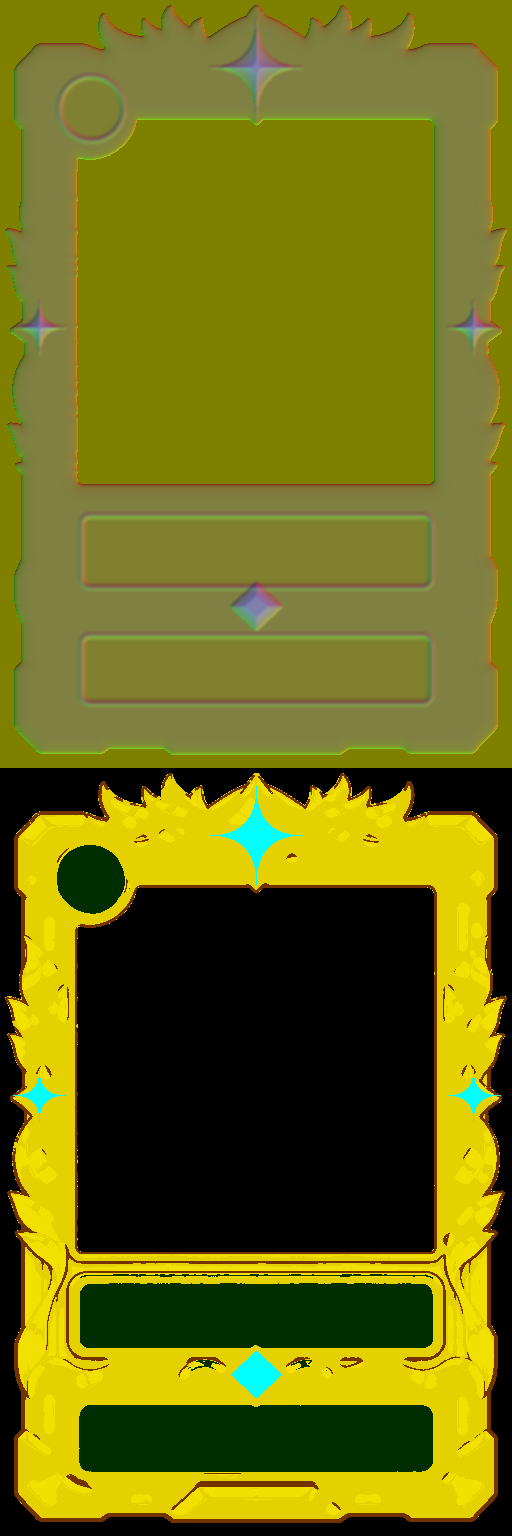
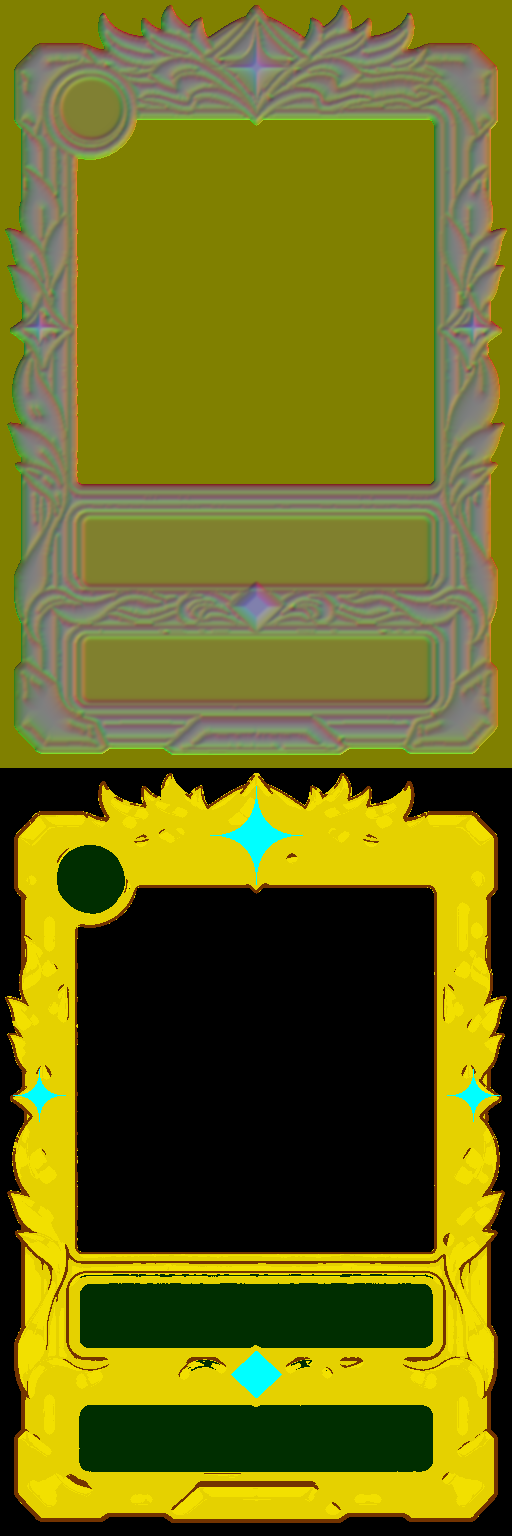
羽・葉・水晶を1枚ずつふくらませる：線画（輪郭線）で部品を区切り、輪郭線からの距離で丸くする（色の明るさは高さに使わない）
Claude-Session: https://claude.ai/code/session_01Lcti3QaRChBxaRVQgGtDFx

Changed region(s): [[0.0312, 0.0, 1.0, 0.5]]

diff --git a/js/ui/precache.js b/js/ui/precache.js
@@ -1,2 +1,2 @@
-self.CF_CACHE_VERSION="99802847cb42bc41";
+self.CF_CACHE_VERSION="cdef1ce72a488a87";
 self.CF_ASSETS=["index.html","manifest.webmanifest","css/accessibility.css","css/account.css","css/battle.css","css/beast.css","css/card-base.css","css/card-zoom.css","css/chat.css","css/coin-toss.css","css/components.css","css/deck.css","css/experience.css","css/finishing-art.css","css/fit.css","css/help-guide.css","css/hologram.css","css/home-tabs.css","css/home.css","css/kingdom.css","css/layout.css","css/mana-growth.css","css/materials.css","css/motion.css","css/mp.css","css/polish.css","css/rank-frames.css","css/rank-rewards.css","css/rarity-assets.css","css/rarity-fx.css","css/settings.css","css/stage.css","css/step5.css","css/style.css","css/text-fit.css","css/theme.css","css/tokens.css","css/tutorial.css","css/weather.css","js/game/Card.js","js/game/Castle.js","js/game/Game.js","js/game/Monster.js","js/game/Player.js","js/game/Road.js","js/game/Setup.js","js/game/Soldier.js","js/game/Stage.js","js/game/Weather.js","js/game/strategies.js","js/game/visibility.js","js/main.js","js/ui/Accessibility.js","js/ui/Account.js","js/ui/AccountPanel.js","js/ui/Animations.js","js/ui/BattleLayout.js","js/ui/Card3D.js","js/ui/CardGL.js","js/ui/CardGuide.js","js/ui/CardInfo.js","js/ui/CardRelief.js","js/ui/CardZoom.js","js/ui/ChatView.js","js/ui/CollectionView.js","js/ui/Cosmetics.js","js/ui/DebugPanel.js","js/ui/DeckEditor.js","js/ui/DeckPreview.js","js/ui/DeckStore.js","js/ui/HandView.js","js/ui/HelpView.js","js/ui/Hologram.js","js/ui/Home.js","js/ui/LocalSetup.js","js/ui/MatchStats.js","js/ui/MaterialSkin.js","js/ui/MissionView.js","js/ui/Music.js","js/ui/OnlineClient.js","js/ui/ProfileView.js","js/ui/ProgressPanel.js","js/ui/Progression.js","js/ui/RankEmblem.js","js/ui/RankRewardsView.js","js/ui/RankedView.js","js/ui/Renderer.js","js/ui/RoomView.js","js/ui/Session.js","js/ui/Settings.js","js/ui/SocialView.js","js/ui/Sound.js","js/ui/Targeting.js","js/ui/Tutorial.js","js/ui/UpgradePanel.js","js/ui/WeatherView.js","js/ui/art.js","js/ui/card-shapes.js","js/ui/cardFrame.js","js/ui/cardView.js","js/ui/config.js","js/ui/handOrder.js","js/ui/look.js","js/ui/motion.js","js/ui/musicScene.js","js/ui/pills.js","js/ui/profileArt.js","js/ui/rarity.js","js/ui/skinArt.js","js/ui/stories.js","js/ui/syncCheck.js","js/ui/text.js","js/vendor/three/BufferGeometryUtils.js","js/vendor/three/GLTFLoader.js","js/vendor/three/three.module.min.js","data/cards.json","data/castles.json","data/decks.json","data/gacha.json","data/missions.json","data/modes.json","data/monsters.json","data/profile.json","data/progression.json","data/ranks.json","data/rarities.json","data/rules.json","data/seasons.json","data/shop.json","data/stages.json","data/stamps.json","data/upgrades.json","data/weather.json","assets/asset-manifest.json","assets/bg/board-meadow-compact.png","assets/bg/board-meadow.png","assets/bg/board.png","assets/bg/home-account.png","assets/bg/home-castle.png","assets/bg/home-deck.png","assets/bg/home-gacha.png","assets/bg/home-settings.png","assets/bg/home-sky.png","assets/bg/kingdom-meadow.png","assets/bg/kingdom-valley.png","assets/bg/stage-dark-forest.png","assets/bg/stage-ice.png","assets/bg/stage-lava.png","assets/bg/stage-meadow.png","assets/bg/stage-ruins.png","assets/bg/title-compact.png","assets/bg/title.png","assets/cards/card-absolute-zero.png","assets/cards/card-adapt.png","assets/cards/card-antidote.png","assets/cards/card-apocalypse.png","assets/cards/card-apprentice-archer.png","assets/cards/card-apprentice-mage.png","assets/cards/card-archer.png","assets/cards/card-archmage.png","assets/cards/card-attack-dice.png","assets/cards/card-barrier.png","assets/cards/card-beast-bat.png","assets/cards/card-beast-demon-king.png","assets/cards/card-beast-demon.png","assets/cards/card-beast-dragon.png","assets/cards/card-beast-ghost.png","assets/cards/card-beast-goblin.png","assets/cards/card-beast-golem.png","assets/cards/card-beast-mimic.png","assets/cards/card-beast-skeleton.png","assets/cards/card-beast-slime.png","assets/cards/card-beast-treant.png","assets/cards/card-beast-vampire.png","assets/cards/card-big-shield.png","assets/cards/card-big-thunder.png","assets/cards/card-blessing.png","assets/cards/card-bolt.png","assets/cards/card-buff-dice.png","assets/cards/card-cavalry.png","assets/cards/card-coin-dice.png","assets/cards/card-death-mist.png","assets/cards/card-decoy.png","assets/cards/card-deep-freeze.png","assets/cards/card-desperate-shot.png","assets/cards/card-dragon-knight.png","assets/cards/card-earth-hammer.png","assets/cards/card-earth-king.png","assets/cards/card-earth-spirit.png","assets/cards/card-fire-king.png","assets/cards/card-fire-spirit.png","assets/cards/card-fireball.png","assets/cards/card-flame-sword.png","assets/cards/card-frost-breath.png","assets/cards/card-frozen-world.png","assets/cards/card-gate.png","assets/cards/card-giant.png","assets/cards/card-glacier.png","assets/cards/card-god-dice.png","assets/cards/card-god-shield.png","assets/cards/card-god-sword.png","assets/cards/card-goddess.png","assets/cards/card-gold-vein.png","assets/cards/card-great-earth-spirit.png","assets/cards/card-great-fire-spirit.png","assets/cards/card-great-heal.png","assets/cards/card-great-water-spirit.png","assets/cards/card-great-wind-spirit.png","assets/cards/card-heal-dice.png","assets/cards/card-heal.png","assets/cards/card-heavy.png","assets/cards/card-hero.png","assets/cards/card-holy-light.png","assets/cards/card-holy-shield.png","assets/cards/card-holy-sword.png","assets/cards/card-infantry.png","assets/cards/card-inferno.png","assets/cards/card-iron-sword.png","assets/cards/card-judgment.png","assets/cards/card-king-treasure.png","assets/cards/card-knight.png","assets/cards/card-life-steal.png","assets/cards/card-longbowman.png","assets/cards/card-mage.png","assets/cards/card-magic-sword.png","assets/cards/card-mana-crystal.png","assets/cards/card-mana-dice.png","assets/cards/card-mana-drop.png","assets/cards/card-mana-raid.png","assets/cards/card-mana-shard.png","assets/cards/card-mana-spring.png","assets/cards/card-meteor.png","assets/cards/card-minor-heal.png","assets/cards/card-paladin.png","assets/cards/card-plague.png","assets/cards/card-poison-mist.png","assets/cards/card-powder-keg.png","assets/cards/card-raijin.png","assets/cards/card-random-dice.png","assets/cards/card-reflect.png","assets/cards/card-sage.png","assets/cards/card-sandbag.png","assets/cards/card-scout.png","assets/cards/card-shield-dice.png","assets/cards/card-shield.png","assets/cards/card-sky-archer.png","assets/cards/card-sniper.png","assets/cards/card-sorcerer.png","assets/cards/card-spearman.png","assets/cards/card-starfall.png","assets/cards/card-steel-shield.png","assets/cards/card-stone-wall.png","assets/cards/card-thief.png","assets/cards/card-thunder.png","assets/cards/card-toxic-rain.png","assets/cards/card-treasure.png","assets/cards/card-venom.png","assets/cards/card-wall.png","assets/cards/card-water-king.png","assets/cards/card-water-spear.png","assets/cards/card-water-spirit.png","assets/cards/card-weather-call.png","assets/cards/card-wind-bow.png","assets/cards/card-wind-king.png","assets/cards/card-wind-spirit.png","assets/cards/card-world-tree-dew.png","assets/cards/frame-beast.png","assets/cards/frame-common.png","assets/cards/frame-epic.png","assets/cards/frame-legendary.png","assets/cards/frame-rare.png","assets/cards/frame-skin-bronze.png","assets/cards/frame-skin-champion.png","assets/cards/frame-skin-diamond.png","assets/cards/frame-skin-gold.png","assets/cards/frame-skin-iron.png","assets/cards/frame-skin-master.png","assets/cards/frame-skin-platinum.png","assets/cards/frame-skin-silver.png","assets/cards/frame-special.png","assets/cards/frame-uncommon.png","assets/cards/relief/frame-beast-raised.png","assets/cards/relief/frame-beast-relief.png","assets/cards/relief/frame-common-raised.png","assets/cards/relief/frame-common-relief.png","assets/cards/relief/frame-epic-raised.png","assets/cards/relief/frame-epic-relief.png","assets/cards/relief/frame-legendary-raised.png","assets/cards/relief/frame-legendary-relief.png","assets/cards/relief/frame-rare-raised.png","assets/cards/relief/frame-rare-relief.png","assets/cards/relief/frame-skin-bronze-raised.png","assets/cards/relief/frame-skin-bronze-relief.png","assets/cards/relief/frame-skin-champion-raised.png","assets/cards/relief/frame-skin-champion-relief.png","assets/cards/relief/frame-skin-diamond-raised.png","assets/cards/relief/frame-skin-diamond-relief.png","assets/cards/relief/frame-skin-gold-raised.png","assets/cards/relief/frame-skin-gold-relief.png","assets/cards/relief/frame-skin-iron-raised.png","assets/cards/relief/frame-skin-iron-relief.png","assets/cards/relief/frame-skin-master-raised.png","assets/cards/relief/frame-skin-master-relief.png","assets/cards/relief/frame-skin-platinum-raised.png","assets/cards/relief/frame-skin-platinum-relief.png","assets/cards/relief/frame-skin-silver-raised.png","assets/cards/relief/frame-skin-silver-relief.png","assets/cards/relief/frame-special-raised.png","assets/cards/relief/frame-special-relief.png","assets/cards/relief/frame-uncommon-raised.png","assets/cards/relief/frame-uncommon-relief.png","assets/cards/window-beast.png","assets/cards/window-common.png","assets/cards/window-epic.png","assets/cards/window-legendary.png","assets/cards/window-rare.png","assets/cards/window-special.png","assets/cards/window-uncommon.png","assets/castles/barracks-blue-damaged-1.png","assets/castles/barracks-blue-damaged-2.png","assets/castles/barracks-blue-damaged-3.png","assets/castles/barracks-blue.png","assets/castles/barracks-orange-damaged-1.png","assets/castles/barracks-orange-damaged-2.png","assets/castles/barracks-orange-damaged-3.png","assets/castles/barracks-orange.png","assets/castles/castle-blue-damaged-1.png","assets/castles/castle-blue-damaged-2.png","assets/castles/castle-blue-damaged-3.png","assets/castles/castle-blue-ruined.png","assets/castles/castle-blue.png","assets/castles/castle-orange-damaged-1.png","assets/castles/castle-orange-damaged-2.png","assets/castles/castle-orange-damaged-3.png","assets/castles/castle-orange-ruined.png","assets/castles/castle-orange.png","assets/castles/fortress-blue-damaged-1.png","assets/castles/fortress-blue-damaged-2.png","assets/castles/fortress-blue-damaged-3.png","assets/castles/fortress-blue.png","assets/castles/fortress-orange-damaged-1.png","assets/castles/fortress-orange-damaged-2.png","assets/castles/fortress-orange-damaged-3.png","assets/castles/fortress-orange.png","assets/castles/tower-blue-damaged-1.png","assets/castles/tower-blue-damaged-2.png","assets/castles/tower-blue-damaged-3.png","assets/castles/tower-blue.png","assets/castles/tower-orange-damaged-1.png","assets/castles/tower-orange-damaged-2.png","assets/castles/tower-orange-damaged-3.png","assets/castles/tower-orange.png","assets/frames/rank-frame-bronze.png","assets/frames/rank-frame-champion.png","assets/frames/rank-frame-diamond.png","assets/frames/rank-frame-gold.png","assets/frames/rank-frame-iron.png","assets/frames/rank-frame-master.png","assets/frames/rank-frame-platinum.png","assets/frames/rank-frame-silver.png","assets/fx/dust.png","assets/fx/evolve-1.png","assets/fx/evolve-2.png","assets/fx/evolve-3.png","assets/fx/explosion.png","assets/fx/fireball.png","assets/fx/fusion.png","assets/fx/heal.png","assets/fx/ice.png","assets/fx/lightning.png","assets/fx/lucky-reward.png","assets/fx/poison.png","assets/models/card-slab.glb","assets/profiles/archer.png","assets/profiles/hero.png","assets/profiles/infantry.png","assets/profiles/knight.png","assets/profiles/mage.png","assets/profiles/spearman.png","assets/ranks/rank-bronze.png","assets/ranks/rank-champion.png","assets/ranks/rank-diamond.png","assets/ranks/rank-gold.png","assets/ranks/rank-iron.png","assets/ranks/rank-master.png","assets/ranks/rank-platinum.png","assets/ranks/rank-silver.png","assets/skins/back-crimson-raised.png","assets/skins/back-crimson.png","assets/skins/back-forest-raised.png","assets/skins/back-forest.png","assets/skins/back-gold-raised.png","assets/skins/back-gold.png","assets/skins/back-rank-bronze-raised.png","assets/skins/back-rank-bronze-relief.png","assets/skins/back-rank-bronze.png","assets/skins/back-rank-champion-raised.png","assets/skins/back-rank-champion-relief.png","assets/skins/back-rank-champion.png","assets/skins/back-rank-diamond-raised.png","assets/skins/back-rank-diamond-relief.png","assets/skins/back-rank-diamond.png","assets/skins/back-rank-gold-raised.png","assets/skins/back-rank-gold-relief.png","assets/skins/back-rank-gold.png","assets/skins/back-rank-iron-raised.png","assets/skins/back-rank-iron-relief.png","assets/skins/back-rank-iron.png","assets/skins/back-rank-master-raised.png","assets/skins/back-rank-master-relief.png","assets/skins/back-rank-master.png","assets/skins/back-rank-platinum-raised.png","assets/skins/back-rank-platinum-relief.png","assets/skins/back-rank-platinum.png","assets/skins/back-rank-silver-raised.png","assets/skins/back-rank-silver-relief.png","assets/skins/back-rank-silver.png","assets/skins/back-royal-raised.png","assets/skins/back-royal.png","assets/skins/castle-crimson.png","assets/skins/castle-forest.png","assets/skins/castle-frost.png","assets/skins/castle-gold.png","assets/skins/castle-shadow.png","assets/skins/fx-azure.png","assets/skins/fx-emerald.png","assets/skins/fx-gold.png","assets/skins/fx-violet.png","assets/skins/icon-dragon-knight.png","assets/skins/icon-giant.png","assets/skins/icon-paladin.png","assets/skins/icon-sage.png","assets/skins/icon-scout.png","assets/skins/icon-sniper.png","assets/skins/title-hunter.png","assets/skins/title-legend.png","assets/skins/title-lucky.png","assets/skins/title-rookie.png","assets/skins/title-wall.png","assets/skins/unit-crimson.png","assets/skins/unit-forest.png","assets/skins/unit-frost.png","assets/skins/unit-gold.png","assets/skins/unit-royal.png","assets/skins/unit-shadow.png","assets/skins/win-aurora.png","assets/skins/win-gold.png","assets/skins/win-sakura.png","assets/ui/app-icon-192.png","assets/ui/app-icon-512.png","assets/ui/app-icon-maskable-512.png","assets/ui/apple-touch-icon.png","assets/ui/banner-win.png","assets/ui/btn-blue.png","assets/ui/btn-cream.png","assets/ui/btn-green.png","assets/ui/btn-orange.png","assets/ui/btn-red.png","assets/ui/btn-round.png","assets/ui/button-end-turn.png","assets/ui/card-back.png","assets/ui/home/casual.png","assets/ui/home/catalog.png","assets/ui/home/deck.png","assets/ui/home/friend.png","assets/ui/home/gacha.png","assets/ui/home/mission.png","assets/ui/home/profile.png","assets/ui/home/rank.png","assets/ui/home/ranking.png","assets/ui/home/settings.png","assets/ui/home/shop.png","assets/ui/home/skin.png","assets/ui/icon-coin.png","assets/ui/icon-earth.png","assets/ui/icon-fire.png","assets/ui/icon-heart.png","assets/ui/icon-help.png","assets/ui/icon-kind-defense.png","assets/ui/icon-kind-soldier.png","assets/ui/icon-kind-spell.png","assets/ui/icon-kind-weapon.png","assets/ui/icon-kind-wild.png","assets/ui/icon-luck.png","assets/ui/icon-mode-local.png","assets/ui/icon-mode-online.png","assets/ui/icon-mode-solo.png","assets/ui/icon-mp.png","assets/ui/icon-rarity-common.png","assets/ui/icon-rarity-epic.png","assets/ui/icon-rarity-legendary.png","assets/ui/icon-rarity-rare.png","assets/ui/icon-rarity-special.png","assets/ui/icon-rarity-uncommon.png","assets/ui/icon-water.png","assets/ui/icon-wind.png","assets/ui/kingdom-crest.png","assets/ui/kingdom-parchment.png","assets/ui/kingdom-platform.png","assets/ui/kingdom-primary.png","assets/ui/kingdom-secondary.png","assets/ui/kingdom-wood.png","assets/ui/logo.png","assets/ui/natural/danger-40-left.png","assets/ui/natural/danger-40-middle.png","assets/ui/natural/danger-40-right.png","assets/ui/natural/danger-44-left.png","assets/ui/natural/danger-44-middle.png","assets/ui/natural/danger-44-right.png","assets/ui/natural/danger-72-left.png","assets/ui/natural/danger-72-middle.png","assets/ui/natural/danger-72-right.png","assets/ui/natural/frame.png","assets/ui/natural/leather-tile.png","assets/ui/natural/neutral-40-left.png","assets/ui/natural/neutral-40-middle.png","assets/ui/natural/neutral-40-right.png","assets/ui/natural/neutral-44-left.png","assets/ui/natural/neutral-44-middle.png","assets/ui/natural/neutral-44-right.png","assets/ui/natural/neutral-72-left.png","assets/ui/natural/neutral-72-middle.png","assets/ui/natural/neutral-72-right.png","assets/ui/natural/neutral-wide-full.png","assets/ui/natural/oak-tile.png","assets/ui/natural/paper-tile.png","assets/ui/natural/primary-40-left.png","assets/ui/natural/primary-40-middle.png","assets/ui/natural/primary-40-right.png","assets/ui/natural/primary-44-left.png","assets/ui/natural/primary-44-middle.png","assets/ui/natural/primary-44-right.png","assets/ui/natural/primary-72-left.png","assets/ui/natural/primary-72-middle.png","assets/ui/natural/primary-72-right.png","assets/ui/natural/primary-wide-full.png","assets/ui/natural/round-neutral.png","assets/ui/natural/round-selected.png","assets/ui/natural/selected-40-left.png","assets/ui/natural/selected-40-middle.png","assets/ui/natural/selected-40-right.png","assets/ui/natural/selected-44-left.png","assets/ui/natural/selected-44-middle.png","assets/ui/natural/selected-44-right.png","assets/ui/natural/selected-72-left.png","assets/ui/natural/selected-72-middle.png","assets/ui/natural/selected-72-right.png","assets/ui/panel-parchment.png","assets/ui/result-defeat.png","assets/ui/result-victory.png","assets/ui/sign-hp.png","assets/ui/stamps/again.png","assets/ui/stamps/gg.png","assets/ui/stamps/go.png","assets/ui/stamps/hello.png","assets/ui/stamps/nice.png","assets/ui/stamps/ouch.png","assets/ui/stamps/scared.png","assets/ui/stamps/smug.png","assets/ui/stamps/sorry.png","assets/ui/stamps/thanks.png","assets/ui/stamps/think.png","assets/ui/stamps/yay.png","assets/ui/tap-plate.png","assets/ui/title-castle-blue.png","assets/ui/title-castle-orange.png","assets/ui/title-infantry-orange.png","assets/ui/title-knight-blue.png","assets/ui/weather-coin-rain.png","assets/ui/weather-fog.png","assets/ui/weather-heavy-rain.png","assets/ui/weather-rain.png","assets/ui/weather-sandstorm.png","assets/ui/weather-storm.png","assets/ui/weather-sunny.png","assets/units/apprentice-archer-blue.png","assets/units/apprentice-archer-orange.png","assets/units/apprentice-mage-blue.png","assets/units/apprentice-mage-orange.png","assets/units/archer-blue.png","assets/units/archer-orange.png","assets/units/archmage-blue.png","assets/units/archmage-orange.png","assets/units/cavalry-blue.png","assets/units/cavalry-orange.png","assets/units/dragon-knight-blue.png","assets/units/dragon-knight-orange.png","assets/units/earth-spirit.png","assets/units/fire-spirit.png","assets/units/giant-blue.png","assets/units/giant-orange.png","assets/units/great-earth-spirit.png","assets/units/great-fire-spirit.png","assets/units/great-water-spirit.png","assets/units/great-wind-spirit.png","assets/units/heavy-blue.png","assets/units/heavy-orange.png","assets/units/hero-blue.png","assets/units/hero-orange.png","assets/units/infantry-blue.png","assets/units/infantry-orange.png","assets/units/knight-blue.png","assets/units/knight-orange.png","assets/units/longbowman-blue.png","assets/units/longbowman-orange.png","assets/units/mage-blue.png","assets/units/mage-orange.png","assets/units/monster-bat.png","assets/units/monster-demon-king.png","assets/units/monster-demon.png","assets/units/monster-dragon.png","assets/units/monster-ghost.png","assets/units/monster-goblin.png","assets/units/monster-golem.png","assets/units/monster-mimic.png","assets/units/monster-skeleton.png","assets/units/monster-slime.png","assets/units/monster-treant.png","assets/units/monster-vampire.png","assets/units/paladin-blue.png","assets/units/paladin-orange.png","assets/units/sage-blue.png","assets/units/sage-orange.png","assets/units/scout-blue.png","assets/units/scout-orange.png","assets/units/sky-archer-blue.png","assets/units/sky-archer-orange.png","assets/units/sniper-blue.png","assets/units/sniper-orange.png","assets/units/sorcerer-blue.png","assets/units/sorcerer-orange.png","assets/units/spearman-blue.png","assets/units/spearman-orange.png","assets/units/water-spirit.png","assets/units/wind-spirit.png"];

diff --git a/js/ui/build-card-relief.js b/js/ui/build-card-relief.js
@@ -461,6 +461,63 @@ export function buildRelief(png, cfg) {
   if (cfg.shape) {
     const sh = shapeHeight({ W, H, solid, big, shape: cfg.shape });
     height.set(sh.height);
+    // 羽・葉・飾りの1枚1枚：絵の線画（太いこげ茶の輪郭線。STYLE.md の決まり）で区切った部品ごとに、
+    // 輪郭線からの距離でまんじゅうのように丸くふくらませる。色の濃さ・明るさは高さに使わない（区切りに使うのは線だけ）
+    {
+      // 線画：まわり（半径4px）より明るさが一段低い細い筋（線は真っ黒ではなく茶色なので、決まった暗さでは拾えない）。小さな点は外す
+      const lum = new Float32Array(N);
+      for (let i = 0; i < N; i++) lum[i] = (data[i * 4] * .3 + data[i * 4 + 1] * .59 + data[i * 4 + 2] * .11) / 255;
+      const R = Math.max(2, Math.round(4 * sx));
+      const sum = new Float64Array((W + 1) * (H + 1)), cnt = new Float64Array((W + 1) * (H + 1));
+      for (let y = 0; y < H; y++) for (let x = 0; x < W; x++) {
+        const i = y * W + x, k = (y + 1) * (W + 1) + x + 1;
+        sum[k] = (solid[i] ? lum[i] : 0) + sum[k - 1] + sum[k - W - 1] - sum[k - W - 2];
+        cnt[k] = (solid[i] ? 1 : 0) + cnt[k - 1] + cnt[k - W - 1] - cnt[k - W - 2];
+      }
+      const area = (tbl, x0, y0, x1, y1) => tbl[y1 * (W + 1) + x1] - tbl[y0 * (W + 1) + x1] - tbl[y1 * (W + 1) + x0] + tbl[y0 * (W + 1) + x0];
+      const line = new Uint8Array(N);
+      for (let y = 0; y < H; y++) for (let x = 0; x < W; x++) {
+        const i = y * W + x;
+        if (!solid[i]) continue;
+        const x0 = Math.max(0, x - R), y0 = Math.max(0, y - R), x1 = Math.min(W, x + R + 1), y1 = Math.min(H, y + R + 1);
+        const n = area(cnt, x0, y0, x1, y1);
+        if (n && lum[i] < area(sum, x0, y0, x1, y1) / n - .08) line[i] = 1;
+      }
+      for (const part of label(W, H, line).parts) if (part.pixels.length < 12 * sx * sx) for (const j of part.pixels) line[j] = 0;
+      const inside = new Uint8Array(N);
+      for (let i = 0; i < N; i++) inside[i] = solid[i] && !line[i] ? 1 : 0;
+      const seg = label(W, H, inside);
+      const lineZero = new Uint8Array(N); for (let i = 0; i < N; i++) lineZero[i] = inside[i] ? 0 : 1;
+      const toLine = distance(W, H, lineZero, 999);
+      const reach = new Float32Array(seg.parts.length);
+      for (let i = 0; i < N; i++) if (seg.lab[i] >= 0 && toLine[i] > reach[seg.lab[i]]) reach[seg.lab[i]] = toLine[i];
+      for (let i = 0; i < N; i++) {
+        const id = seg.lab[i];
+        if (id < 0 || sh.claimed[i] || reach[id] < 1.5 * sx) continue;
+        const part = seg.parts[id];
+        // 大きい部品ほど高く（ただし地や窓まわりのような広い面は、ゆるく）
+        let amp = .08 + Math.min(.16, reach[id] / (40 * sx));
+        if (part.pixels.length > N * .03) amp = .05;
+        height[i] += amp * bevel(toLine[i] / reach[id]);
+      }
+      // 輪郭線そのものは、両どなりの部品の低い方にそろえた浅い溝（深い溝にすると、暗い線ほど低い＝色が高さに出る）
+      for (let pass = 0; pass < 2; pass++) {
+        const next = Float32Array.from(height);
+        for (let y = 1; y < H - 1; y++) for (let x = 1; x < W - 1; x++) {
+          const i = y * W + x;
+          if (!line[i] || sh.claimed[i]) continue;
+          let low = Infinity;
+          for (let dy = -2; dy <= 2; dy++) for (let dx = -2; dx <= 2; dx++) {
+            const xx = x + dx, yy = y + dy;
+            if (xx < 0 || yy < 0 || xx >= W || yy >= H) continue;
+            const j = yy * W + xx;
+            if (inside[j] && height[j] < low) low = height[j];
+          }
+          if (low < Infinity) next[i] = Math.max(height[i], low - .02);
+        }
+        height.set(next);
+      }
+    }
     for (let i = 0; i < N; i++) {
       if (sh.gem[i]) { gem[i] = 1; metal[i] = 0; smooth[i] = 1; }
       else if (gem[i]) { gem[i] = 0; metal[i] = cfg.base.metal; smooth[i] = cfg.base.smooth; }

diff --git a/js/ui/card-shapes.js b/js/ui/card-shapes.js
@@ -145,6 +145,7 @@ function gemT(cut, dx, dy, w, h) {
 export function shapeHeight({ W, H, solid, big, shape, back }) {
   const N = W * H, sx = W / 512, sy = H / 768, s = (sx + sy) / 2;
   const height = new Float32Array(N), gem = new Uint8Array(N), raised = new Float32Array(N), paper = new Uint8Array(N);
+  const claimed = new Uint8Array(N);   // 帯・メダル・宝石・鋲が形を決めた所（線画の部品のふくらみは足さない）
   // 本体の四角：外形の行・列のうち、6割以上が埋まっている範囲（はみ出す飾りは、この外）
   const rows = new Float32Array(H), cols = new Float32Array(W);
   for (let i = 0; i < N; i++) if (solid[i]) { rows[(i / W) | 0]++; cols[i % W]++; }
@@ -174,7 +175,7 @@ export function shapeHeight({ W, H, solid, big, shape, back }) {
       // 板（名前の帯・下の帯）：はめ込みの名札。ふち（幅 5px）が立ち、中は一段へこむ
       for (const plate of shape.plates ?? []) {
         const d = rectInside(plate, x, y, 12);
-        if (d > 0) { h += d < 5 * s ? .07 * tube(Math.abs(d - 2.5 * s) / (2.5 * s)) : -.08 * bevel((d - 5 * s) / (4 * s)); paper[i] = d > 6 * s ? 1 : 0; }
+        if (d > 0) { claimed[i] = 1; h += d < 5 * s ? .07 * tube(Math.abs(d - 2.5 * s) / (2.5 * s)) : -.08 * bevel((d - 5 * s) / (4 * s)); paper[i] = d > 6 * s ? 1 : 0; }
       }
       for (const banner of shape.banners ?? []) {
         const d = rectInside(banner, x, y, 6);
@@ -183,12 +184,12 @@ export function shapeHeight({ W, H, solid, big, shape, back }) {
       // メダル・円盤：ふちのあるドーム
       for (const m of [shape.medal, ...(shape.discs ?? [])].filter(Boolean)) {
         const [cx, cy] = P(m.x, m.y), r = m.r * s, d = Math.hypot(x - cx, y - cy);
-        if (d < r) { const e = r - d; h += e < 5 * s ? .08 * tube(Math.abs(e - 2.5 * s) / (2.5 * s)) : -.06 * bevel((e - 5 * s) / (4 * s)); }   // ふちが立ち、中はへこむ
+        if (d < r) { claimed[i] = 1; const e = r - d; h += e < 5 * s ? .08 * tube(Math.abs(e - 2.5 * s) / (2.5 * s)) : -.06 * bevel((e - 5 * s) / (4 * s)); }   // ふちが立ち、中はへこむ
       }
       // 鋲：半球
       for (const dm of shape.domes ?? []) {
         const [cx, cy] = P(dm.x, dm.y), r = dm.r * s, d = Math.hypot(x - cx, y - cy);
-        if (d < r) { h += .22 * tube(d / r); raised[i] = Math.max(raised[i], 1); }
+        if (d < r) { claimed[i] = 1; h += .22 * tube(d / r); raised[i] = Math.max(raised[i], 1); }
       }
       // 輪・天使の輪：丸い管
       for (const ring of shape.rings ?? []) {
@@ -220,6 +221,7 @@ export function shapeHeight({ W, H, solid, big, shape, back }) {
         const [cx, cy] = P(g.x, g.y), dx = x - cx, dy = y - cy;
         const t = gemT(g.cut ?? 'diamond', dx, dy, g.w * sx, g.h * sy);
         if (t > 0) {
+          claimed[i] = 1;
           h += .1 + .32 * Math.min(1, t / .55);
           if (g.gem !== false) gem[i] = 1;
           raised[i] = Math.max(raised[i], 1);
@@ -231,5 +233,5 @@ export function shapeHeight({ W, H, solid, big, shape, back }) {
       height[i] = Math.max(0, Math.min(1, h));
     }
   }
-  return { height, gem, raised, paper, body: [bx0, by0, bx1, by1] };
+  return { height, gem, raised, paper, claimed, body: [bx0, by0, bx1, by1] };
 }
